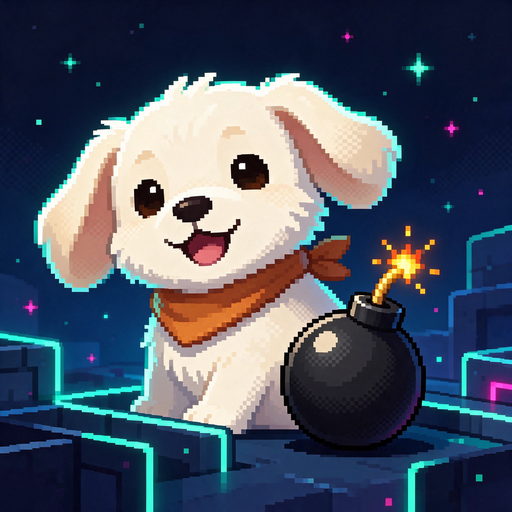
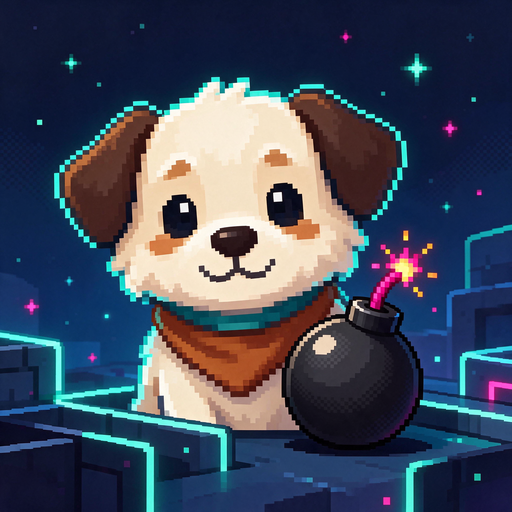
Prepare BOOMEX v0.3 for Telegram validation

diff --git a/privacy-policy.html b/privacy-policy.html
@@ -4,7 +4,7 @@
   <meta charset="utf-8">
   <meta name="viewport" content="width=device-width, initial-scale=1">
   <meta name="theme-color" content="#06131d">
-  <title>Política de Privacidade — BOOMEX</title>
+  <title>Política de Privacidade — BOOMEX v0.3</title>
   <style>
     :root{color-scheme:dark;font-family:system-ui,sans-serif;background:#03080e;color:#d5f8ff}
     body{margin:0;padding:24px 18px 40px;background:radial-gradient(circle at top,#0b2635,#03080e 72%);line-height:1.6}
@@ -17,9 +17,10 @@
 <body>
 <main>
   <h1>Política de Privacidade do BOOMEX</h1>
-  <p class="draft"><strong>Versão de preparação:</strong> antes de disponibilizar publicamente, o responsável deve confirmar o endereço de suporte abaixo e hospedar esta política em uma página HTTPS pública. Não publicar este rascunho com o marcador de contato.</p>
+  <p class="draft"><strong>Prévia v0.3:</strong> esta página está disponível para revisar dentro do preview de teste. Antes de publicar o aplicativo, o responsável deverá hospedá-la em uma URL HTTPS permanente e confirmar que continua refletindo exatamente a versão enviada à loja.</p>
   <p><strong>Responsável:</strong> Ivan Moreira de Araújo, desenvolvedor do BOOMEX.</p>
-  <p><strong>Contato de suporte a confirmar:</strong> [INSERIR E-MAIL PÚBLICO DE SUPORTE]</p>
+  <p><strong>Contato público de suporte e privacidade:</strong> <a href="mailto:ivanmoreira1001@gmail.com">ivanmoreira1001@gmail.com</a></p>
+  <p><strong>Público-alvo declarado:</strong> o BOOMEX não é direcionado a crianças menores de 13 anos.</p>
 
   <h2>Quais informações o BOOMEX usa</h2>
   <p>Na versão Android preparada neste projeto, o jogo não exige cadastro, não usa publicidade nem ferramentas de análise, e não envia para o desenvolvedor o progresso, a pontuação ou outros dados do jogo. O progresso pode ser guardado localmente no armazenamento do aplicativo, no próprio aparelho, para permitir continuar a campanha.</p>
@@ -31,11 +32,11 @@
   <p>O jogo oferece um link opcional para o perfil @achadosanosdourados no TikTok. Se você tocar nele, o serviço/site do TikTok poderá receber dados técnicos da conexão e tratar dados conforme as próprias políticas e configurações de privacidade. O BOOMEX não controla esse tratamento externo; consulte as informações do TikTok antes de usar o serviço.</p>
 
   <h2>Permissões, anúncios e contas</h2>
-  <p>A versão Android não oferece criação de conta, não exibe anúncios e não inclui sincronização online do jogo. A permissão de internet existe para o funcionamento do WebView e do link externo opcional; o jogo em si foi preparado para iniciar e funcionar sem conexão.</p>
+  <p>A versão Android não oferece criação de conta, não exibe anúncios e não inclui sincronização online do jogo. A permissão de internet existe para o WebView e para o link externo opcional; o jogo em si foi preparado para iniciar e funcionar sem conexão.</p>
 
   <h2>Alterações e dúvidas</h2>
-  <p>Se o comportamento do aplicativo mudar, esta política e as declarações de privacidade da loja deverão ser atualizadas. Para dúvidas sobre privacidade ou para solicitar ajuda com dados locais, use o e-mail público de suporte que será definido antes do lançamento.</p>
-  <p><small>Rascunho técnico do candidato BOOMEX. Revisado em 17 de novembro de 2026.</small></p>
+  <p>Se o comportamento do aplicativo mudar, esta política e as declarações de privacidade da loja deverão ser atualizadas. Para dúvidas sobre privacidade ou para solicitar ajuda com dados locais, escreva para <a href="mailto:ivanmoreira1001@gmail.com">ivanmoreira1001@gmail.com</a>.</p>
+  <p><small>Rascunho técnico do candidato BOOMEX v0.3. Revisado em 17 de novembro de 2026.</small></p>
 </main>
 </body>
 </html>

diff --git a/index.html b/index.html
@@ -2,7 +2,7 @@
 <html lang="pt-BR">
 <head>
 <meta charset="UTF-8"><meta name="viewport" content="width=device-width,initial-scale=1,viewport-fit=cover">
-<meta name="theme-color" content="#06131d"><title>BOOMEX</title>
+<meta name="theme-color" content="#06131d"><title>BOOMEX v0.3</title>
 <style>
 *{box-sizing:border-box}html,body{margin:0;min-height:100%;background:radial-gradient(circle at center,#0b2635,#03080e 72%);color:#d5f8ff;font-family:system-ui,sans-serif;overscroll-behavior:none}
 body{display:flex;justify-content:center}main{width:min(100%,540px);min-height:100dvh;padding:8px 10px max(10px,env(safe-area-inset-bottom));display:flex;flex-direction:column;align-items:center;justify-content:center;gap:8px}main::after{content:"";flex:0 0 50px}

diff --git a/README.md b/README.md
@@ -1,56 +1,41 @@
-# BOOMEX — preparação Android para a Google Play
+# BOOMEX v0.3 — validação Telegram e Android
 
-Esta branch prepara o jogo web atual para testes Android e para uma futura publicação. Ela não modifica `main` nem a versão web em produção. O aplicativo é uma WebView Capacitor que empacota os arquivos locais do jogo; o SDK remoto do Telegram é removido da cópia Android.
+Esta branch (`cue/android-validation-20261116`) é isolada: `main` e o jogo em produção permanecem intactos. A versão v0.3 mantém o tabuleiro, o canvas, os controles e as mecânicas existentes; só troca o sprite do cão e a imagem da bomba por arte nova, e identifica a versão no título/metadata.
 
-## Artefatos desta preparação
+## Escolhas confirmadas
 
-- APK de depuração para instalar e testar: `artifacts/boomex-preview-debug.apk` — pacote de teste `com.ivan419419.boomex.preview`.
-- Jogo standalone sem conexão: `artifacts/boomex-offline.html` — um único arquivo HTML com JavaScript, sprites e a política local embutidos.
-- AAB candidato assinado: `artifacts/boomex-candidate-release.aab` — ID de release `com.ivan419419.boomex`, `versionCode` 1, `versionName` 1.0.0, `minSdk` 24 e `targetSdk` 36. Foi gerado e verificado localmente, mas não foi enviado à Google Play.
-- Ícone 512×512, duas alternativas visuais e gráfico 1024×500 estão em `assets/store/`. Os conceitos visuais ainda aguardam a escolha do proprietário antes de serem tratados como arte final.
-- Duas capturas de gameplay 1080×1920 para revisão da ficha estão em `assets/store/screenshots/`.
+- Nome: BOOMEX; `versionName` Android: `0.3`; `versionCode`: `3`; versão do pacote npm: `0.3.0`.
+- ID candidato: `com.ivan419419.boomex`; APK de teste usa o sufixo `.preview`.
+- Ícone A aprovado, reconstruído a partir da nova mascote; o gráfico promocional 1024×500 aprovado foi mantido.
+- A versão não é direcionada a menores de 13 anos.
+- Contato público de suporte/privacidade: `ivanmoreira1001@gmail.com`.
+- Os sprites de procedência incerta foram substituídos por assets originais gerados para esta versão; o código de gameplay e os controles não foram alterados.
 
-O ícone A está aplicado provisoriamente ao APK/AAB porque combina melhor com o cão pixelado do jogo. O ícone B continua disponível como alternativa. Nenhuma dessas escolhas foi enviada para a loja.
+## Ordem desta rodada
 
-## Estado técnico
+1. `npm run build:telegram-preview` cria `telegram-preview/` com somente HTML, scripts de runtime, política e as imagens necessárias. O SDK Telegram continua ativo, para que o link HTTPS possa ser aberto no webview do Telegram.
+2. O preview é testado no Telegram primeiro. Nenhum APK v0.3 será entregue como aprovado antes desse teste.
+3. Depois do retorno do teste no Telegram, gerar o APK de depuração para o aparelho Android e, se solicitado/necessário, o AAB de validação. Não há publicação automática.
 
-- `npm test`: 11 testes passaram nesta preparação.
-- O APK debug é assinado com a chave de depuração local; o AAB usa uma upload key RSA 2048 gerada para este candidato e a assinatura do arquivo foi verificada.
-- A cópia Android não inclui o sprite `bomberman_walk.png`, que não é usado pelo jogo.
-- O manifesto Android desativa backup automático (`allowBackup=false`). A permissão de internet permanece para o WebView e o link externo opcional do TikTok; o jogo inicia e funciona offline.
-- O progresso é local no aparelho; não foram encontrados anúncios, analytics, cadastro de conta ou envio remoto do progresso na versão auditada.
+O diretório temporário `telegram-preview/` é ignorado pelo Git e o servidor HTTP deve apontar somente para ele. Ele não contém o keystore, credenciais, APK/AAB nem fontes de build.
 
-## O que ainda precisa ser decidido ou concluído antes da loja
+## Estado da loja
 
-1. Confirmar que o pacote `com.ivan419419.boomex` está disponível na Play Console antes de criar a ficha; o ID é difícil de trocar depois que o app é criado.
-2. Confirmar direitos comerciais/licenças dos assets usados no jogo, em especial `assets/images/boomex-dog-sprite.png` e `assets/images/bomb.png`. O histórico do repositório não documenta suas origens.
-3. Escolher o ícone A ou B e aprovar a arte promocional/capturas.
-4. Substituir `[INSERIR E-MAIL PÚBLICO DE SUPORTE]` em `privacy-policy.html`, escolher o contato que poderá ficar público e hospedar a política em uma URL HTTPS pública. O link interno já abre essa página no app.
-5. Definir o público-alvo/idades e preencher as declarações de classificação etária, anúncios, Data safety e demais questionários da Play Console com base na versão final.
-6. Completar teste em aparelho Android físico e, se a conta pessoal nova estiver sujeita à regra vigente, o teste fechado exigido pelo Google Play.
+A política local agora mostra o contato e o público escolhidos, mas ainda precisa de uma URL HTTPS permanente antes do envio à loja. O ID não foi conferido na Play Console. As declarações de conteúdo, privacidade/Data safety e classificação etária precisam ser preenchidas na conta do desenvolvedor com base no app final. Nenhuma conta foi criada, taxa paga, build enviada ou publicação feita.
 
-Nenhuma conta de desenvolvedor foi criada, nenhuma taxa foi paga e nenhum app foi submetido ou publicado.
+## Verificações
+
+`npm test` cobre 11 testes automatizados de mapa, movimento/colisão, progresso local e campanha. O pacote Android usa `minSdk` 24 e `targetSdk` 36. Antes do APK final desta rodada, também será necessário conferir o preview no aparelho físico; o usuário quer validar primeiro dentro do Telegram.
 
 ## Comandos
 
 ```bash
 npm install
 npm test
-npm run build:web
+npm run build:telegram-preview
 npm run build:offline
 npm run build:android:debug
-```
-
-Para gerar um novo AAB assinado, forneça estas variáveis no ambiente apenas durante a compilação:
-
-```bash
-BOOMEX_UPLOAD_KEYSTORE=/caminho/privado/boomex-upload-key.jks
-BOOMEX_UPLOAD_STORE_PASSWORD=...
-BOOMEX_UPLOAD_KEY_ALIAS=boomex-upload
-BOOMEX_UPLOAD_KEY_PASSWORD=...
 npm run build:android:release
 ```
 
-`BOOMEX_AAPT2_OVERRIDE` é opcional e serve apenas em hosts Linux ARM64 que precisem executar o AAPT2 oficial via emulação. No computador desta preparação, o AAB e o APK foram montados com API 36.
-
-A upload key e as credenciais de recuperação estão em `artifacts/` no ambiente local e essa pasta é ignorada pelo Git. Faça uma cópia segura da chave antes de limpar o ambiente e nunca a envie ao repositório.
+A chave de upload e suas credenciais permanecem em `artifacts/` no ambiente local, ignoradas pelo Git. Faça cópia segura se for necessário manter uma futura assinatura de release; nunca as envie ao repositório.

diff --git a/assets/store/listing-copy-pt-BR.md b/assets/store/listing-copy-pt-BR.md
@@ -1,4 +1,4 @@
-# Texto candidato da ficha — BOOMEX (pt-BR)
+# Texto candidato da ficha — BOOMEX v0.3 (pt-BR)
 
 **Status:** rascunho para revisão; nada foi enviado à Google Play.
 
@@ -17,13 +17,15 @@ Um cão explorador, labirintos cheios de inimigos e decisões rápidas: em BOOME
 - Recorde e progresso salvos localmente no aparelho.
 - A campanha pode ser jogada sem conexão com a internet.
 
-A versão candidata não exige cadastro, não exibe anúncios e não envia o progresso do jogo para um servidor.
+A versão candidata não exige cadastro, não exibe anúncios e não envia o progresso do jogo para um servidor. O jogo não é direcionado a crianças menores de 13 anos.
 
 BOOMEX contém ação arcade fantasiosa, com bombas e explosões estilizadas; não representa violência real nem incentiva ações no mundo real. O link opcional para o TikTok só é aberto se você tocar nele.
 
-## Campos ainda não declarados
+**Contato de suporte:** ivanmoreira1001@gmail.com.
+
+## Campos ainda dependentes da Play Console
 
 - Categoria sugerida: Jogos > Arcade (confirmar na Play Console).
-- Público-alvo e classificação etária: preencher após decisão do proprietário e o questionário oficial.
-- Contato público de suporte: aguarda escolha do proprietário.
-- URL HTTPS pública da política de privacidade: aguarda hospedagem e contato final.
+- Questionário oficial de classificação etária, público-alvo, Data safety e anúncios.
+- Confirmar a disponibilidade do ID `com.ivan419419.boomex` antes de criar a ficha.
+- Hospedar a política de privacidade em uma URL HTTPS permanente e testar o fluxo no aparelho.

diff --git a/assets/store/asset-provenance-v0.3.md b/assets/store/asset-provenance-v0.3.md
@@ -1,0 +1,9 @@
+# Procedência de arte — BOOMEX v0.3
+
+Os sprites `assets/images/boomex-dog-sprite.png` (folha 4×4, 256×256) e `assets/images/bomb.png` (64×64) foram criados especificamente para BOOMEX v0.3 por geração de imagem, em resposta a prompts originais para personagem e prop de jogo. Não foram editados, recortados nem reaproveitados a partir dos sprites antigos de cachorro ou bomba cuja procedência não estava documentada.
+
+O ícone A de 512×512 também foi gerado para esta versão usando a nova mascote como referência de identidade e o conceito A previamente aprovado como referência de composição. As imagens anteriores foram substituídas nos recursos do app e no preview. Os PNGs grandes usados como intermediários foram removidos; só os finais compactos permanecem no pacote.
+
+O gráfico panorâmico 1024×500 aprovado foi mantido; ele é uma ilustração original gerada para a ficha, sem uso dos antigos sprites do repositório. Nenhuma marca ou franquia de terceiros foi solicitada ou incluída intencionalmente.
+
+Este registro descreve a origem de produção dos arquivos e reduz dependências de arte sem licença identificada; não é uma garantia jurídica de exclusividade ou ausência de semelhança não intencional. Não foi feita publicação comercial nem submissão à loja.
